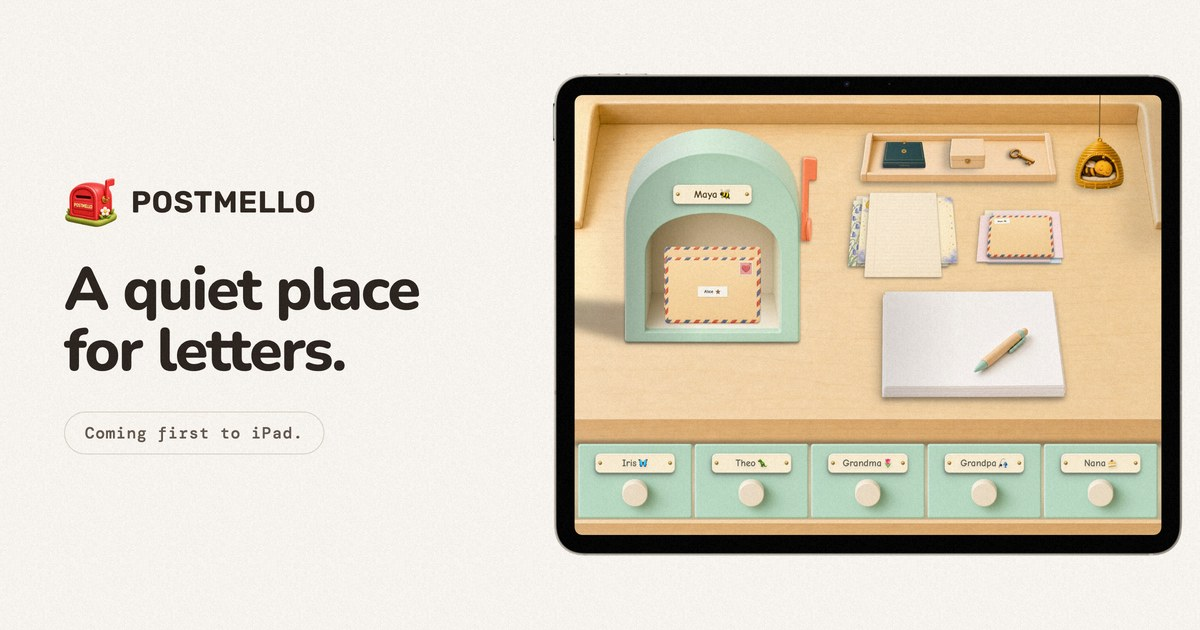
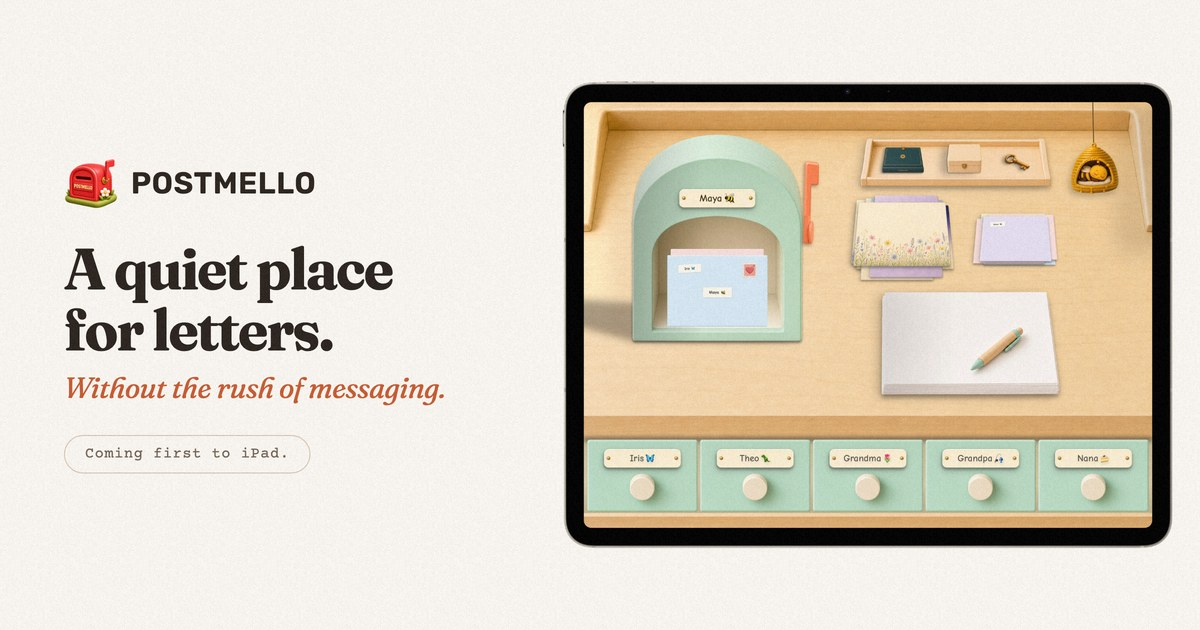
The share card stops advertising the old design system
THE CARD HAD DRIFTED, which is the one failure its own source file was written
to prevent. og-card.html carries a comment explaining that the card is authored
as a PAGE, rendered by the same browser with the same webfonts and tokens as the
site, so it "cannot drift into a different typeface than the page it points at".
It drifted anyway: the homepage moved onto home.css on 2026-08-23 - Fraunces
headings, Plus Jakarta Sans sentences, Courier Prime apparatus - and this file
kept rendering the previous system, a Nunito 800 headline in a rounded sans
pointing at a page whose H1 is a serif. A shared link unfurled as a different
product than it opened. The rule was right; nobody acted on it, so the comment
now says to act on it, and the script's docstring names this as the failure it
has actually had rather than a hypothetical.

What changed: the headline is Fraunces 700 at the page's own tracking, the badge
is Courier Prime, the body is Plus Jakarta Sans, and the tokens are copied from
home.css rather than approximated. Rubik stays, loaded for the WORDMARK alone -
that one is a brand spec (600, uppercase, +0.025em, #2C231D), not a page style,
and setting the headline in it would be the opposite mistake.

The hero's terracotta italic joins the card, at half the headline like the page
sets it. It is the most distinctive thing about the current hero and the card
had nothing of it. The desk shot re-renders from the 2026-08-21 reshoot, which
[…]

diff --git a/scripts/og-card.html b/scripts/og-card.html
@@ -2,36 +2,52 @@
 <html lang="en">
 <head>
   <meta charset="utf-8" />
-  <title>Postmello share card — source</title>
+  <title>Postmello share card - source</title>
   <!-- The 1200x630 image a Postmello link unfurls as, authored as a PAGE rather
        than composed in PIL. That is the whole point: the card is rendered by the
-       same browser, with the same three webfonts and the same tokens as the
-       site, so it cannot drift into a different typeface than the page it
-       points at. `make-og-card.py` shoots this file at 2x and downsamples.
+       same browser, with the same webfonts and the same tokens as the site, so
+       it cannot drift into a different typeface than the page it points at.
+       `make-og-card.py` shoots this file at 2x and downsamples.
 
-       Not linked from anywhere and not in the sitemap — it is a source file that
-       happens to be HTML. -->
+       IT DRIFTED ANYWAY (2026-08-23). The homepage moved onto its own design
+       system on the 23rd - Fraunces headings, Plus Jakarta Sans sentences,
+       Courier Prime apparatus - and this file kept rendering the previous
+       one: a Nunito 800 headline in a rounded sans against a page whose H1 is
+       a serif. The card looked like a different product. So the rule the
+       comment above states has to be ACTED on when the site restyles: when
+       home.css changes face or token, change it here and rerun the script.
+
+       Not linked from anywhere and not in the sitemap - it is a source file
+       that happens to be HTML. -->
   <link rel="preconnect" href="https://fonts.googleapis.com" />
   <link rel="preconnect" href="https://fonts.gstatic.com" crossorigin />
-  <link rel="stylesheet" href="https://fonts.googleapis.com/css2?family=DM+Mono:wght@500&amp;family=Nunito:wght@400..800&amp;family=Rubik:wght@600&amp;display=swap" />
+  <!-- The site's three families, plus Rubik for the wordmark ONLY - the mark
+       is Rubik 600 uppercase at +0.025em in #2C231D wherever it appears, and
+       that is a brand spec rather than a page style. Do not set the headline
+       in it. -->
+  <link rel="stylesheet" href="https://fonts.googleapis.com/css2?family=Courier+Prime:wght@400;700&amp;family=Fraunces:ital,opsz,wght@0,9..144,400..800;1,9..144,400..700&amp;family=Plus+Jakarta+Sans:wght@400..800&amp;family=Rubik:wght@600&amp;display=swap" />
   <style>
+    /* Straight from home.css. If a token moves there, move it here. */
     :root {
-      --ink: #29211b;
-      --ink-mark: #2c231d;
-      --ink-soft: #62564c;
-      --paper: #faf7f2;
+      --ink-900: #2B231D;
+      --ink-600: #746456;
+      --ink-mark: #2C231D;
+      --terracotta-600: #C85A32;
+      --parchment-100: #FAF7F2;
+      --line: #DAC6B4;
+      --font-serif: "Fraunces", Georgia, serif;
+      --font-sans: "Plus Jakarta Sans", system-ui, sans-serif;
+      --font-mono: "Courier Prime", ui-monospace, monospace;
       --font-mark: "Rubik", system-ui, sans-serif;
-      --font-voice: "Nunito", system-ui, sans-serif;
-      --font-apparatus: "DM Mono", ui-monospace, monospace;
     }
     * { box-sizing: border-box; margin: 0; padding: 0; }
     body {
       width: 1200px; height: 630px;
-      background: var(--paper);
-      font-family: var(--font-voice);
-      color: var(--ink);
+      background: var(--parchment-100);
+      font-family: var(--font-sans);
+      color: var(--ink-900);
       display: grid;
-      grid-template-columns: 460px 1fr;
+      grid-template-columns: 470px 1fr;
       align-items: center;
       gap: 24px;
       padding: 0 0 0 64px;
@@ -44,7 +60,7 @@
       background-image: url("../assets/paper-grain.png");
       background-size: 128px;
     }
-    .mark { display: flex; align-items: center; gap: 13px; margin-bottom: 30px; }
+    .mark { display: flex; align-items: center; gap: 13px; margin-bottom: 28px; }
     .mark img { width: 54px; height: 54px; }
     .mark span {
       font-family: var(--font-mark);
@@ -53,23 +69,35 @@
       color: var(--ink-mark);
       line-height: 1;
     }
+    /* The page's H1, at the page's weight and tracking. */
     h1 {
-      font-weight: 800; font-size: 60px;
-      line-height: 1.02; letter-spacing: -0.025em;
+      font-family: var(--font-serif);
+      font-weight: 700; font-size: 58px;
+      line-height: 1.05; letter-spacing: -0.03em;
+      margin-bottom: 10px;
+    }
+    /* The hero's one italic, and the reason the card now reads as the same
+       product: a terracotta serif italic at half the headline, so the pair is
+       a statement and its aside rather than two headlines. */
+    .aside {
+      font-family: var(--font-serif);
+      font-style: italic; font-weight: 400;
+      font-size: 29px; line-height: 1.2; letter-spacing: -0.01em;
+      color: var(--terracotta-600);
       margin-bottom: 30px;
     }
     .badge {
       display: inline-block;
-      font-family: var(--font-apparatus);
-      font-weight: 500; font-size: 16px; letter-spacing: 0.05em;
-      color: var(--ink-soft);
-      border: 1px solid #ddd4ca; border-radius: 999px;
+      font-family: var(--font-mono);
+      font-weight: 400; font-size: 15px; letter-spacing: 0.05em;
+      color: var(--ink-600);
+      border: 1px solid var(--line); border-radius: 999px;
       padding: 10px 20px;
     }
     /* The desk runs to the right edge with a little air, cropped to the device
-       itself — the shot's own surround is the same paper, so there is no seam. */
+       itself - the shot's own surround is the same paper, so there is no seam. */
     .shot { justify-self: end; padding-right: 40px; }
-    .shot img { width: 640px; height: auto; display: block; }
+    .shot img { width: 620px; height: auto; display: block; }
   </style>
 </head>
 <body>
@@ -79,9 +107,13 @@
       <span>Postmello</span>
     </div>
     <h1>A quiet place<br />for letters.</h1>
+    <p class="aside">Without the rush of messaging.</p>
     <span class="badge">Coming first to iPad.</span>
   </div>
   <div class="shot">
+    <!-- The BEZELLED capture, not the screen-only crop the homepage hero uses.
+         A share card is a thumbnail in someone else's feed; the device outline
+         is what makes it read as an app at 400px wide. -->
     <img src="../assets/app-desk.jpg" alt="" />
   </div>
 </body>

diff --git a/index.html b/index.html
@@ -4,11 +4,17 @@
   <meta charset="utf-8" />
   <meta name="viewport" content="width=device-width, initial-scale=1" />
   <title>Postmello - A quiet place for letters</title>
-  <meta name="description" content="Postmello is a private desk for digital letters with friends and family - without the rush of messaging. Coming first to iPad." />
+  <meta name="description" content="A private desk for writing, drawing, and sending digital letters to friends and family. No group chats, algorithmic feeds, or urgency. Coming first to iPad." />
   <link rel="icon" type="image/png" href="assets/favicon.png" />
   <link rel="apple-touch-icon" href="assets/app-icon.png" />
   <meta property="og:title" content="Postmello - A quiet place for letters" />
-  <meta property="og:description" content="A private desk for digital letters with friends and family - without the rush of messaging." />
+  <!-- NOT "- without the rush of messaging" any more: the share card image
+       now carries that line as its terracotta aside, so an unfurl printed it
+       twice, once in the picture and once in the text directly beneath it -
+       the same repetition that took the tagline out from under the header
+       wordmark. This is the hero's FIRST sentence, the definition, which is
+       what the picture does not already say. -->
+  <meta property="og:description" content="A private desk for writing, drawing, and sending digital letters to friends and family." />
   <meta property="og:image" content="https://postmello.com/assets/og-card.jpg" />
   <meta property="og:type" content="website" />
   <meta property="og:url" content="https://postmello.com/" />

diff --git a/scripts/make-og-card.py b/scripts/make-og-card.py
@@ -4,10 +4,15 @@
 Shoots scripts/og-card.html in headless Chrome at 2x and downsamples, rather
 than composing the card in PIL. PIL would need font FILES; the site's three
 faces come from the Google Fonts CDN, so the only way to guarantee the card is
-set in the same Rubik / Nunito / DM Mono as the page it points at is to let a
-browser render it. It also means the card is authored in the site's own tokens.
+set in the same Fraunces / Plus Jakarta Sans / Courier Prime as the page it
+points at is to let a browser render it. (Rubik is loaded too, for the wordmark
+only — that one is a brand spec, not a page style.) It also means the card is
+authored in the site's own tokens.
 
-Rerun after any change to the H1, the hero shot, or the type system.
+Rerun after any change to the H1, the hero shot, or the type system — and note
+that "the type system" is the failure this file has actually had: the homepage
+restyled on 2026-08-23 and the card kept shipping the previous faces for a
+week, so a shared link unfurled as a different product than it opened.
 Needs network on first run (the CDN); Chrome caches the fonts afterwards.
 """
 import pathlib
